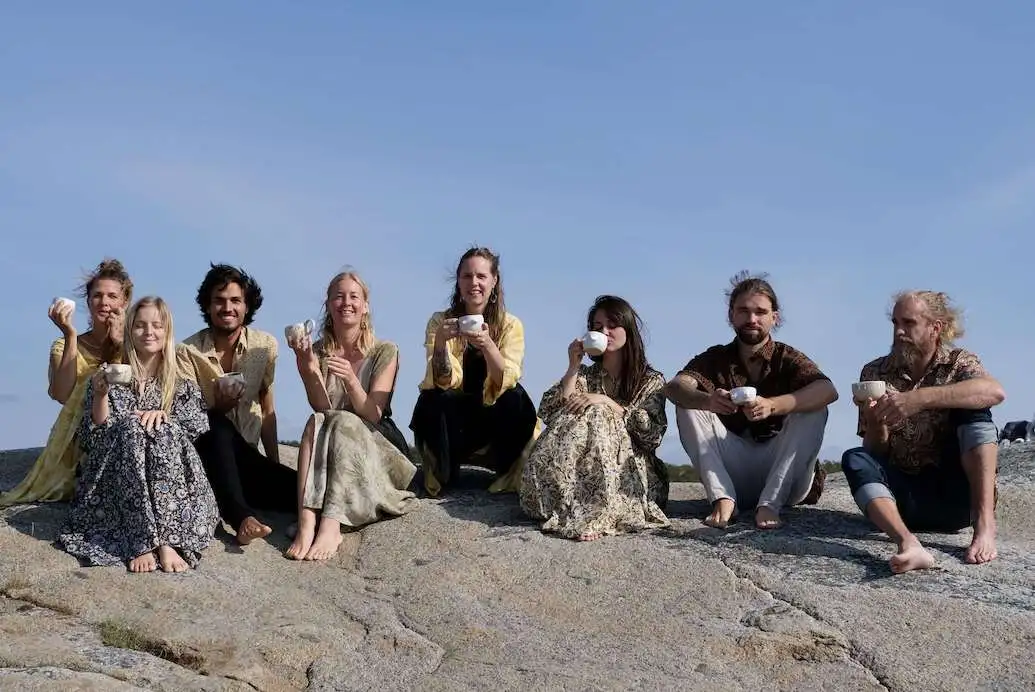
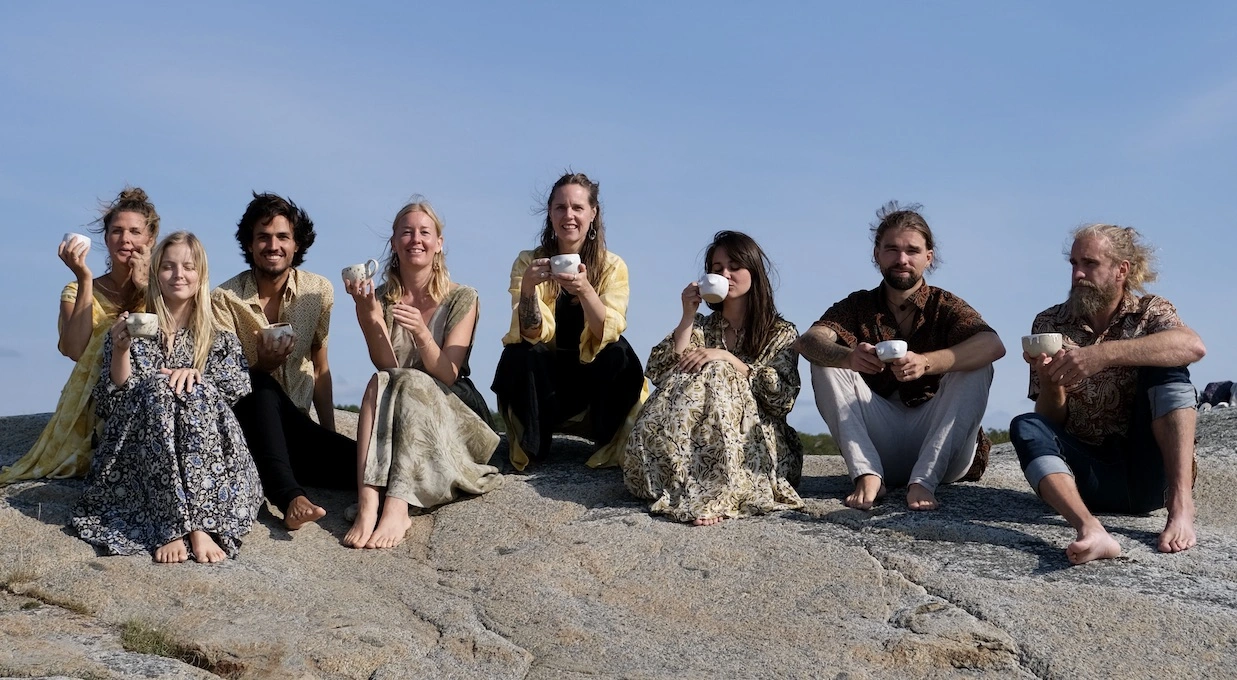
Replace groupofpeople images as it was bad quality

diff --git a/assets/css/style.css b/assets/css/style.css
@@ -122,7 +122,7 @@ main {
         flex-direction: column;
 }
 #hero {
-    background: url(../images/lotushands.jpg) no-repeat center/cover;
+    background: url(../images/lotushands.webp) no-repeat center/cover;
     position: relative;
     height: 600px;
     width: 100%;
@@ -204,7 +204,7 @@ p > a {
 }
 
 #about-image {
-    background: url(../images/eaglearms.jpg) no-repeat center/cover;
+    background: url(../images/eaglearms.webp) no-repeat center/cover;
     width: auto;
     height: 86vw;
     margin: 1.2rem;
@@ -232,7 +232,7 @@ iframe {
 /* Classes page */
 
 #class-image {
-    background: url(../images/groupofpeople.jpg) no-repeat center/cover;
+    background: url(../images/groupofpeople.webp) no-repeat center/cover;
     width: auto;
     height: 45vw;
     margin: 1.2rem;
